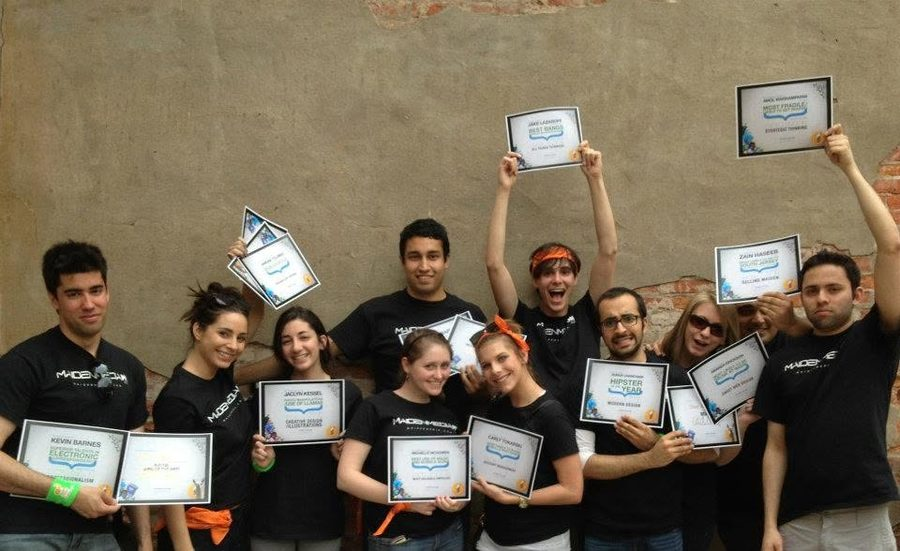
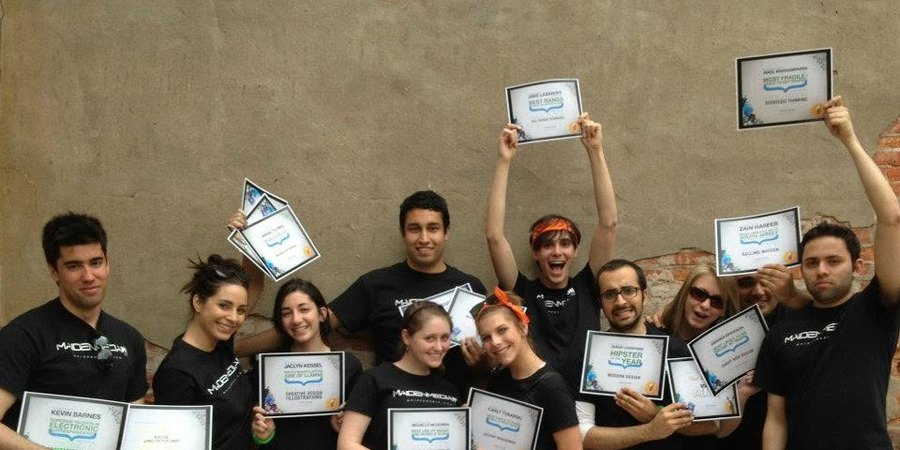
Pair the Maiden Media artifacts on one row
The page shot moves up from `exit` to sit beside the team photo. Two
artifacts splitting the 28rem box would leave 220px each, too small to
read, so a pair takes the rest of the column at 38rem — 300px each.

Recropped the team photo to 2:1 to match the page shot. Equal aspect means
equal height, which is what puts the two captions on the same baseline;
the trim comes off the legs and the bare wall, so every face and every
raised certificate survives.

Its caption drops to "The agency": "Acquired by Stream Companies" is a
2016 fact and would misdate the 2012 milestone it now sits under. `exit`
still carries it in its note, and is left bare for its own image.

diff --git a/src/lib/signal.config.ts b/src/lib/signal.config.ts
@@ -107,7 +107,17 @@ export const milestones: Milestone[] = [
         alt: "The Maiden Media team outside the Philadelphia office, holding up internal awards certificates.",
         caption: "The team",
         width: 900,
-        height: 551,
+        height: 450,
+      },
+      {
+        /* Moved up from `exit` so the pair reads as one row. The caption drops
+           the acquisition, which is a 2016 fact and would misdate the 2012
+           milestone it now sits on — `exit` still carries it in its note. */
+        src: "/trajectory/maidenmedia.jpg",
+        alt: "The Maiden Media Group page, describing the agency as a strategic creative agency acquired by Stream Companies",
+        caption: "The agency",
+        width: 900,
+        height: 449,
       },
     ],
   },
@@ -122,15 +132,6 @@ export const milestones: Milestone[] = [
     label: "Exit",
     meta: "2016",
     note: "Acquired by Stream Companies.",
-    artifacts: [
-      {
-        src: "/trajectory/maidenmedia.jpg",
-        alt: "The Maiden Media Group page, describing the agency as a strategic creative agency acquired by Stream Companies",
-        caption: "Acquired by Stream Companies",
-        width: 900,
-        height: 449,
-      },
-    ],
   },
   {
     id: "stream",

diff --git a/src/app/globals.css b/src/app/globals.css
@@ -350,6 +350,13 @@ body {
     margin-left: 3rem;
     max-width: 28rem;
   }
+
+  /* A pair splits the same box in half, which leaves each one too small to
+     read. Two get the rest of the column instead — the widest the third track
+     goes before the text column starts giving up width. */
+  .signal-row[data-artifacts="2"] .signal-artifacts {
+    max-width: 38rem;
+  }
 }
 
 .signal-artifact {
